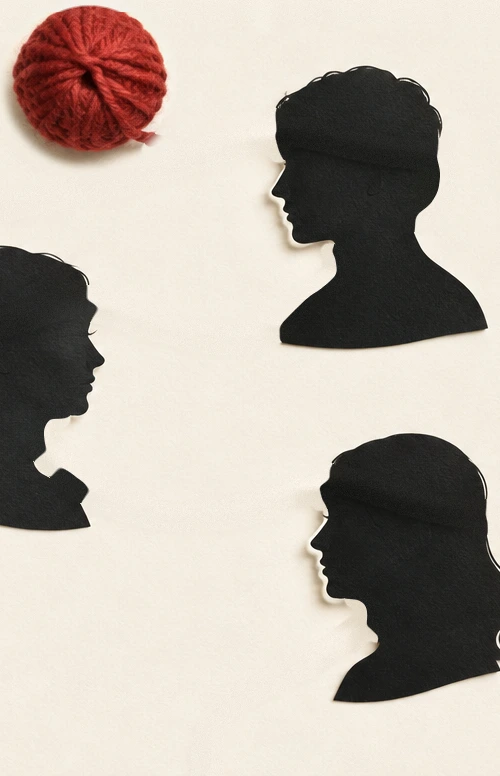
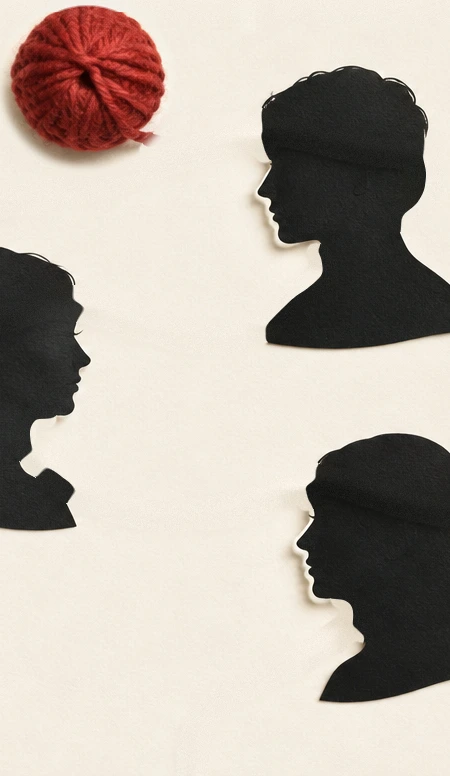
Matassa: meno spazio sopra e sotto, niente filo colorato nell'apertura
Claude-Session: https://claude.ai/code/session_01K8S9kDcMmADtdHMs7poTsz

diff --git a/assets/js/site.js b/assets/js/site.js
@@ -1478,6 +1478,9 @@
   'use strict';
   var hero = document.getElementById('soglia');
   if (!hero || !window.pfFilo || !document.body.classList.contains('carta')) return;
+  // con la matassa in apertura (assets/js/matassa.js) il filo e' gia' la lana: qui niente
+  // filo colorato, che riparte piu' giu' con gli artisti
+  if (document.getElementById('matassa')) return;
   var NS = 'http://www.w3.org/2000/svg';
   var ridotto = window.matchMedia && matchMedia('(prefers-reduced-motion: reduce)').matches;
   var DUR = 2800, RIT = 450, animato = false;
@@ -1533,8 +1536,6 @@
         az = box(hero.querySelector('.ag-actions')), conto = box(document.getElementById('conto'));
     var testi = [logo, h1, sub, meta, az, conto].filter(Boolean);
     var nav = document.querySelector('.nav'), navH = nav ? nav.offsetHeight : 64;
-    // con la matassa prima, l'apertura non parte sotto la barra: lo spazio in alto e' tutto suo
-    if (document.getElementById('matassa')) navH = 8;
     var pts = null;
     // 1) accanto al titolo, nello spazio vuoto a destra: esce dal logo alla sua altezza,
     //    entra nel primo giro dall'alto (cosi' resta sopra il titolo), poi il secondo giro
@@ -1650,22 +1651,14 @@
     requestAnimationFrame(passo2);
   }
 
-  // si aspettano i caratteri: prima le misure dei testi non sono quelle vere.
-  // Con la matassa prima dell'apertura (assets/js/matassa.js) il filo parte solo quando
-  // l'apertura arriva a schermo: prima si starebbe ancora guardando la matassa.
-  var caratteri = false;
-  var aschermo = !document.getElementById('matassa') || !('IntersectionObserver' in window);
   function parti() {
-    if (animato || !caratteri || !aschermo) return;
+    if (animato) return;
     animato = true;
     disegna(true);
   }
-  function pronti() { caratteri = true; parti(); }
-  if (document.fonts && document.fonts.ready) document.fonts.ready.then(pronti); else window.addEventListener('load', pronti);
-  setTimeout(pronti, 1500);
-  if (!aschermo) new IntersectionObserver(function (v, o) {
-    if (v[0].isIntersecting) { aschermo = true; o.disconnect(); parti(); }
-  }, { threshold: 0.25 }).observe(hero);
+  // si aspettano i caratteri: prima le misure dei testi non sono quelle vere
+  if (document.fonts && document.fonts.ready) document.fonts.ready.then(parti); else window.addEventListener('load', parti);
+  setTimeout(parti, 1500);
   var lw = window.innerWidth, tmo = null;
   window.addEventListener('resize', function () {
     if (window.innerWidth === lw) return;   // al telefono la barra degli indirizzi cambia l'altezza: non si ridisegna

diff --git a/assets/css/site.css b/assets/css/site.css
@@ -1204,7 +1204,7 @@ body.carta.menu-open .nav.solid{background:var(--paper);border-color:var(--paper
 .matassa{position:relative;height:260vh;background:var(--paper)}
 .matassa-palco{position:sticky;top:0;height:100vh;height:100svh;overflow:hidden;
   display:flex;flex-direction:column;justify-content:flex-end;align-items:center}
-.matassa-tela{position:relative;width:min(100%, calc((100svh - 96px) * 1344 / 776));aspect-ratio:1344/776;
+.matassa-tela{position:relative;width:min(100%, calc((100svh - 64px) * 1344 / 776));aspect-ratio:1344/776;
   -webkit-mask-image:linear-gradient(to right,transparent,#000 3%,#000 97%,transparent),linear-gradient(to bottom,transparent,#000 1.5%,#000 98.5%,transparent);
   -webkit-mask-composite:source-in;
   mask-image:linear-gradient(to right,transparent,#000 3%,#000 97%,transparent),linear-gradient(to bottom,transparent,#000 1.5%,#000 98.5%,transparent);
@@ -1219,12 +1219,12 @@ body.carta.menu-open .nav.solid{background:var(--paper);border-color:var(--paper
 @media (prefers-reduced-motion:reduce){.matassa{height:100vh;height:100svh}}
 /* schermo in verticale: il taglio «stretto» della foto (matassa.js), largo quanto lo schermo */
 @media (max-aspect-ratio:1/1){
-  .matassa-palco{justify-content:center;padding-top:76px}
+  .matassa-palco{justify-content:flex-start;padding-top:68px}
   .matassa-scorri{top:auto;bottom:calc(22px + env(safe-area-inset-bottom))}
-  .matassa-tela{width:min(100%, calc((100svh - 96px) * 500 / 776));aspect-ratio:500/776;
+  .matassa-tela{width:min(100%, calc((100svh - 68px) * 450 / 776));aspect-ratio:450/776;
     -webkit-mask-image:linear-gradient(to bottom,transparent,#000 1.5%,#000 98.5%,transparent);
     mask-image:linear-gradient(to bottom,transparent,#000 1.5%,#000 98.5%,transparent)}
 }
 /* l'apertura subito sotto: la carta continua, niente riga di separazione e poco spazio
-   sopra (la barra non la copre: sopra c'e' la matassa) */
-.matassa + .page-hero{border-top:0;padding-top:calc(64px + 3vw)}
+   sopra (la barra non la copre: sopra c'e' la matassa; il filo colorato qui non c'e') */
+.matassa + .page-hero{border-top:0;padding-top:clamp(12px,2vw,32px)}

diff --git a/index.html b/index.html
@@ -20,7 +20,7 @@
 <link rel="preload" as="font" type="font/woff2" href="assets/fonts/jost-300-latin.woff2" crossorigin>
 <link rel="preload" as="font" type="font/woff2" href="assets/fonts/cormorant-garamond-300-latin.woff2" crossorigin>
 <link rel="preload" as="font" type="font/woff2" href="assets/fonts/cormorant-garamond-300-italic-latin.woff2" crossorigin>
-<link rel="stylesheet" href="assets/css/site.css?v=20261002i">
+<link rel="stylesheet" href="assets/css/site.css?v=20261003a">
 <!-- senza JavaScript il calendario e il menu non funzionano: meglio non mostrarli -->
 <noscript><style>[data-ics],.burger{display:none!important}</style></noscript>
 </head>
@@ -560,8 +560,8 @@
   </div>
 </footer>
 
-<!-- prima la matassa: se c'e', site.js aspetta che l'apertura sia a schermo per disegnare il filo colorato -->
-<script src="assets/js/matassa.js?v=20261002i" defer></script>
-<script src="assets/js/site.js?v=20261002i" defer></script>
+<!-- prima la matassa: se c'e', site.js non disegna il filo colorato dell'apertura -->
+<script src="assets/js/matassa.js?v=20261003a" defer></script>
+<script src="assets/js/site.js?v=20261003a" defer></script>
 </body>
 </html>

diff --git a/assets/js/matassa.js b/assets/js/matassa.js
@@ -25,7 +25,7 @@
   // per ogni taglio: misure, la matassa (centro e raggio) e il capo (3 px su tutto il percorso)
   var TAGLI = {
     largo:   { W: 1344, H: 776, palla: { x: 133, y: 92, r: 73 }, punta: 3 / 3285 },
-    stretto: { W: 500,  H: 776, palla: { x: 89, y: 80, r: 73 }, punta: 3 / 3000 }
+    stretto: { W: 450,  H: 776, palla: { x: 87, y: 80, r: 73 }, punta: 3 / 3000 }
   };
   var DIR = 'assets/img/matassa/';
   var scena = null;   // il taglio caricato: immagine di base, pixel del filo, tempi
